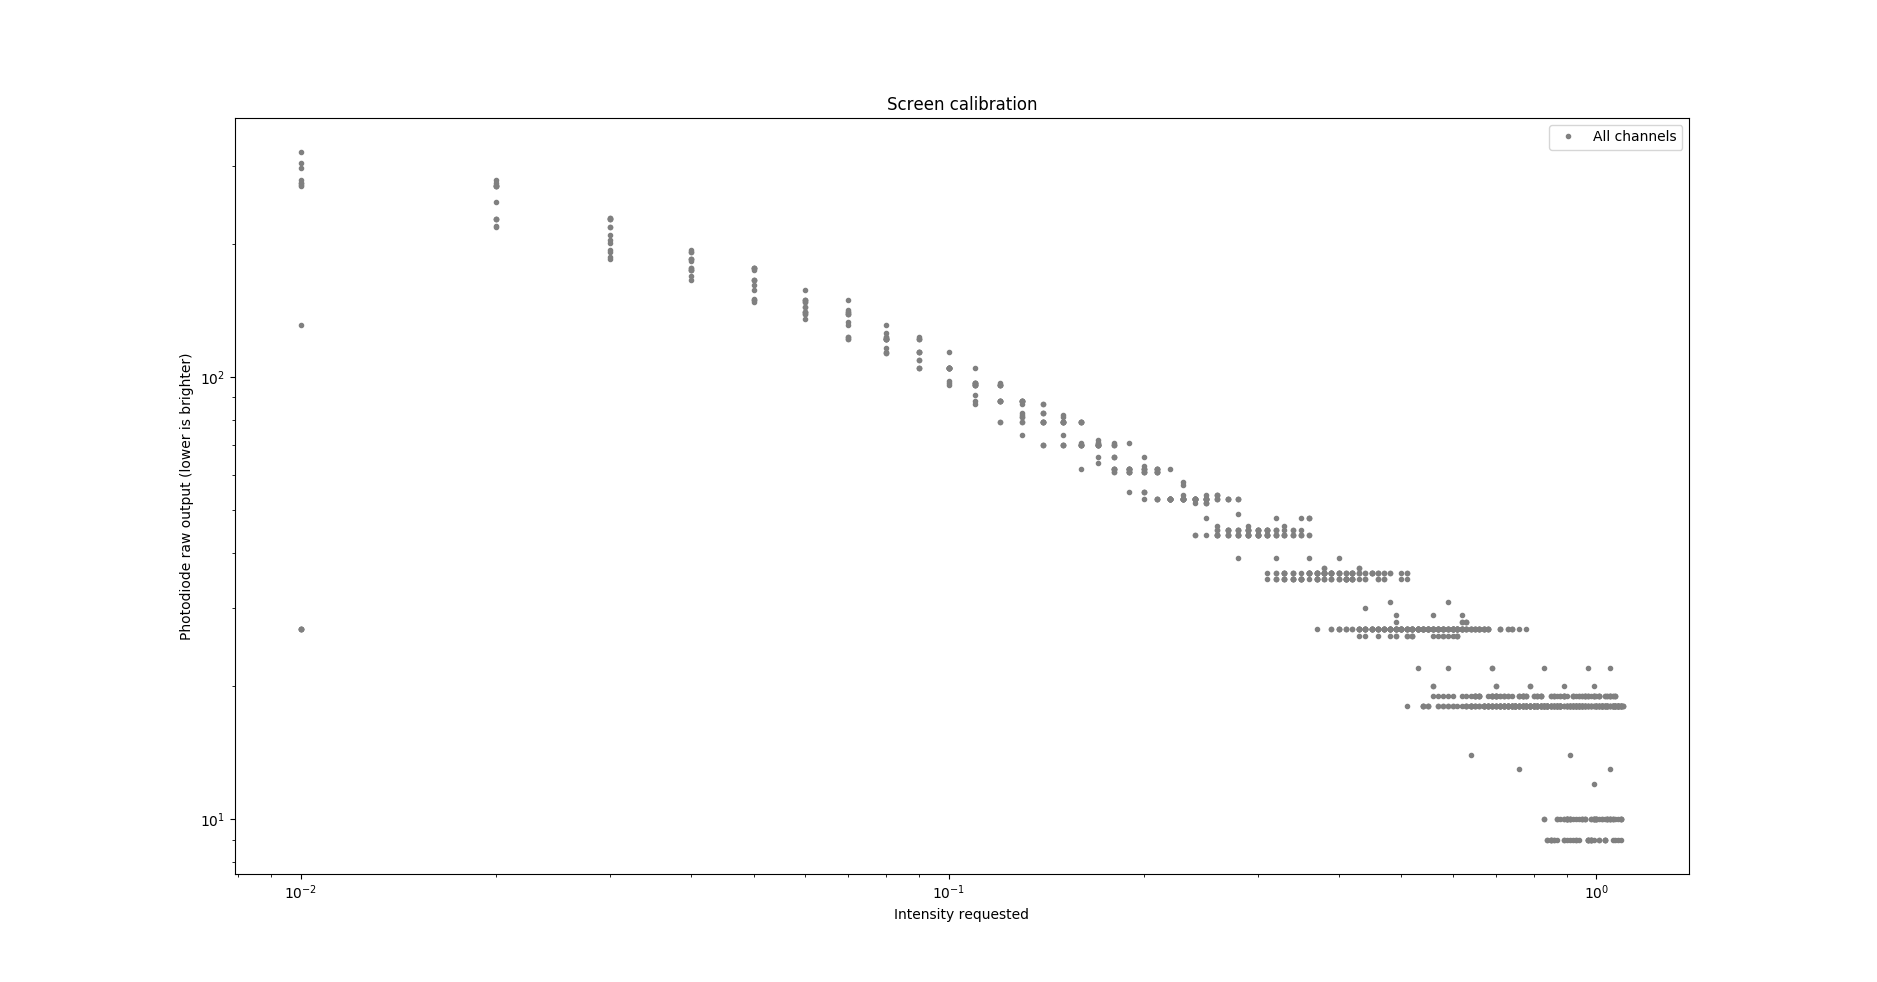
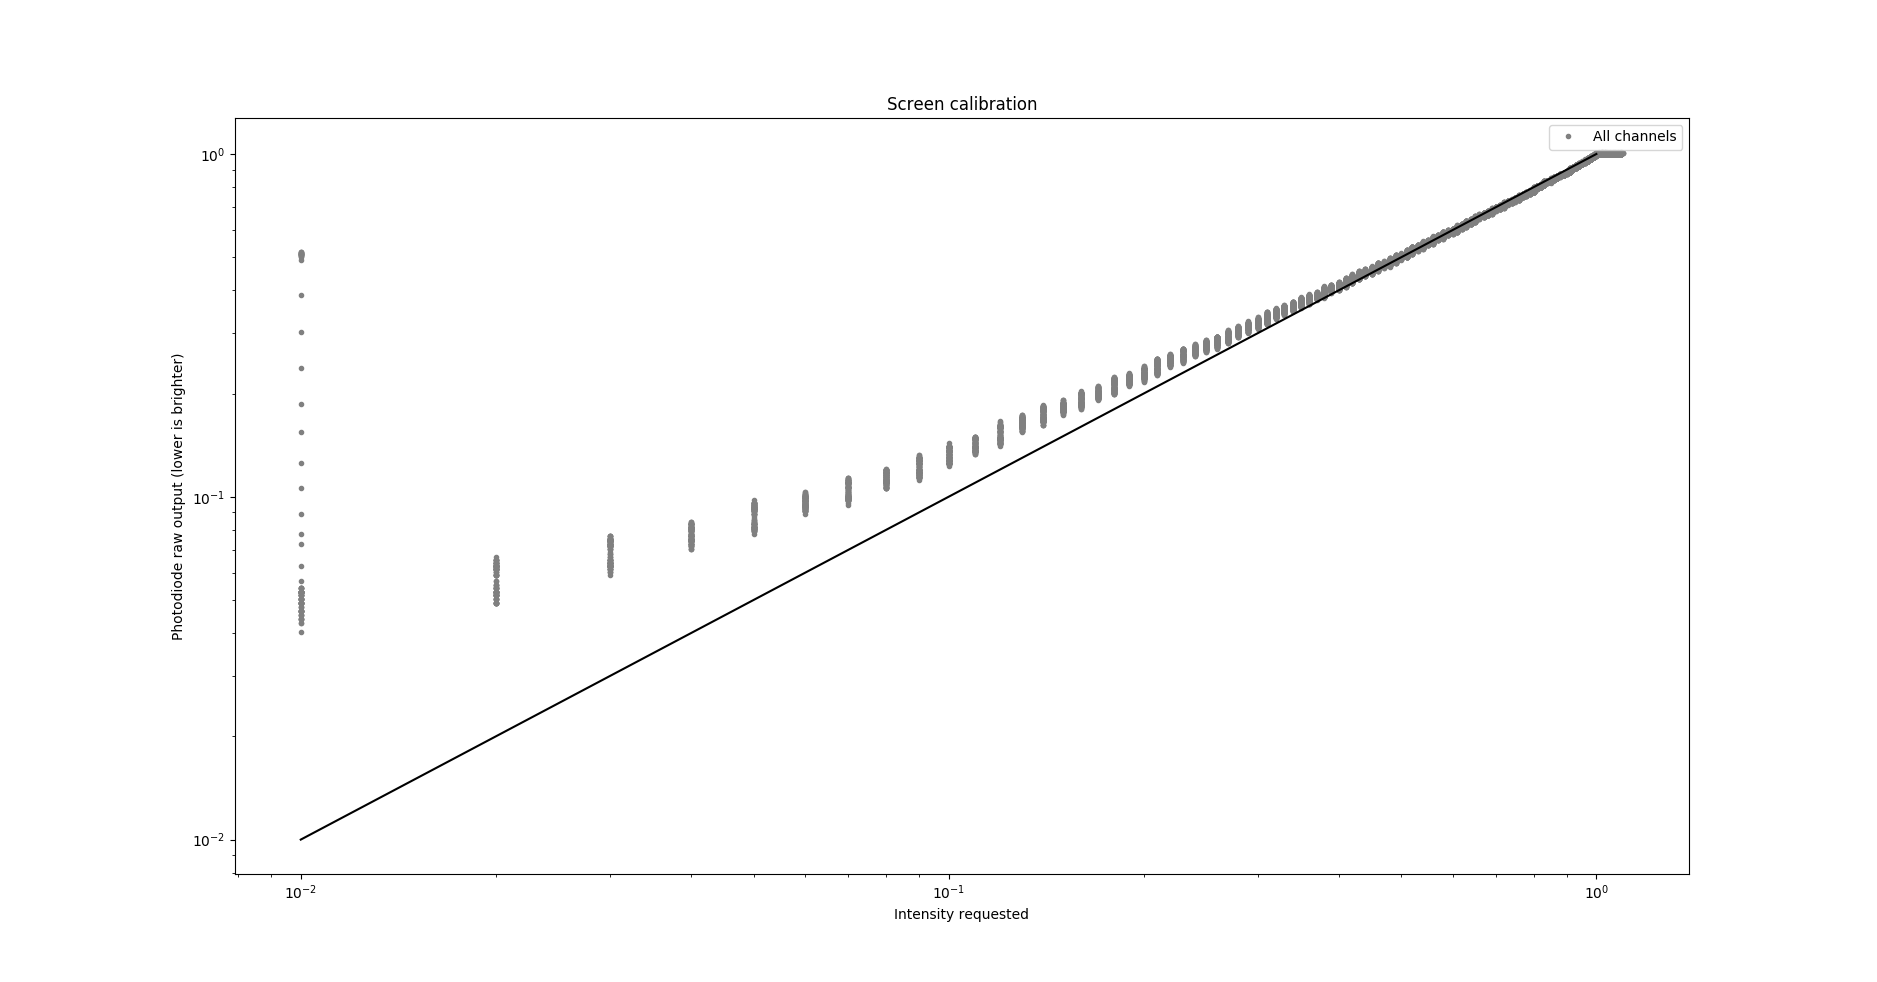
added loglog plots to screen_calibration

diff --git a/devices/screen_calibration/calibration_plots.py b/devices/screen_calibration/calibration_plots.py
@@ -104,7 +104,7 @@ for file_path in files:
     plt.plot(df.int, df.val, '.', c=c, label=label)
     plt.yscale('log')
     plt.xscale('log')
-    # plt.plot(x_new, x_new, c='k')
+    plt.plot(x_new, x_new, c='k')
 plt.title('Screen calibration')
 plt.legend()
 plt.xlabel('Intensity requested')
